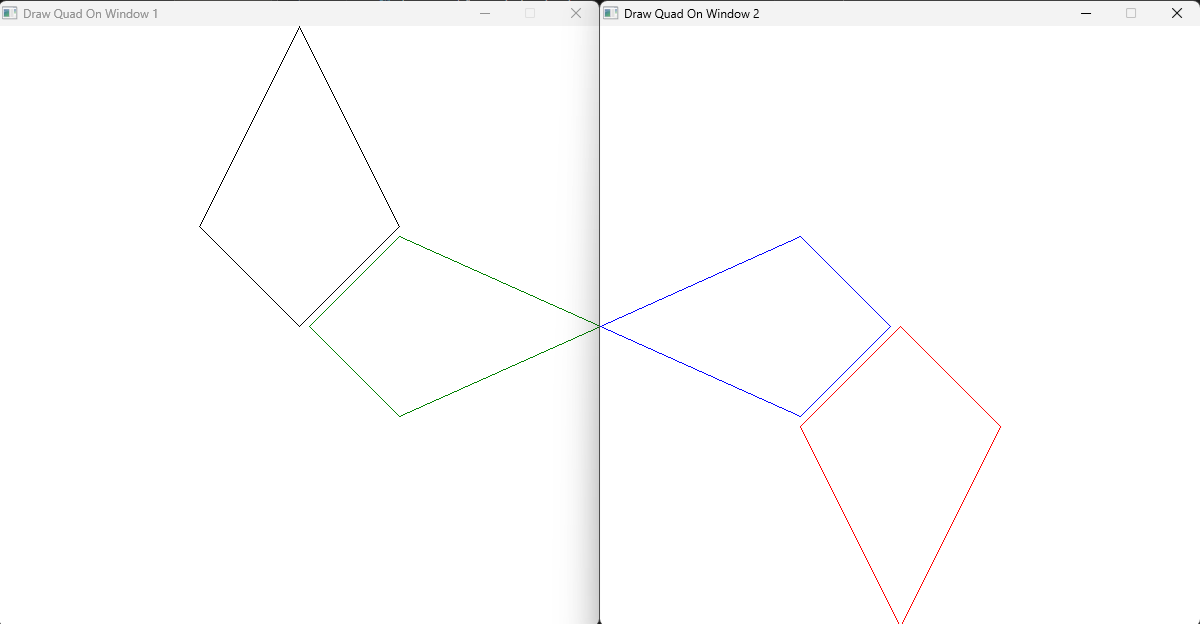
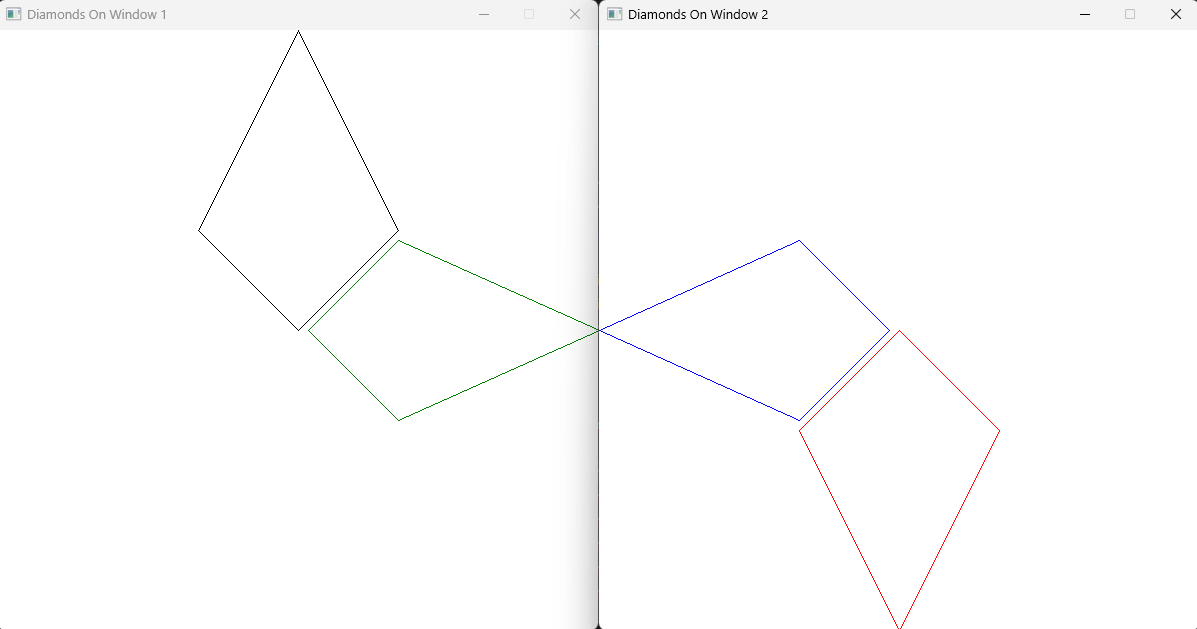
Updated OOP, reformatted code, updated description

diff --git a/public/usage-examples/graphics/draw_quad_on_window/draw_quad_on_window-1-simple-oop.cs b/public/usage-examples/graphics/draw_quad_on_window/draw_quad_on_window-1-simple-oop.cs
@@ -6,28 +6,25 @@ namespace DrawQuadOnWindow
     {
         public static void Main()
         {
-            // Initialise quads with x1,y1,...,x4,y4
-            Quad q1 = SplashKit.QuadFrom(400,200,300,300,300,0,200,200);
-            Quad q2 = SplashKit.QuadFrom(400,210,310, 300,600,300,400,390);
-            Quad q3 = SplashKit.QuadFrom(200,400,300, 300,300,600,400,400);
-            Quad q4 = SplashKit.QuadFrom(200,390,290, 300,0,300,200,210);
+            // Initialise quads with x1, y1,..., x4, y4
+            Quad Q1 = SplashKit.QuadFrom(400, 200, 300, 300, 300, 0, 200, 200);
+            Quad Q2 = SplashKit.QuadFrom(400, 210, 310, 300, 600, 300, 400, 390);
+            Quad Q3 = SplashKit.QuadFrom(200, 400, 300, 300, 300, 600, 400, 400);
+            Quad Q4 = SplashKit.QuadFrom(200, 390, 290, 300, 0, 300, 200, 210);
 
-            // Create Window
-
-            Window window1 = SplashKit.OpenWindow("Draw Quad On Window 1", 600, 600);
-            Window window2 = SplashKit.OpenWindow("Draw Quad On Window 2", 600, 600);
+            // Create Windows
+            Window Window1 = SplashKit.OpenWindow("Diamonds On Window 1", 600, 600);
+            Window Window2 = SplashKit.OpenWindow("Diamonds On Window 2", 600, 600);
             SplashKit.ClearScreen(SplashKit.ColorWhite());
 
-
-            SplashKit.DrawQuadOnWindow(window1, SplashKit.ColorBlack(), q1);
-            SplashKit.DrawQuadOnWindow(window1, SplashKit.ColorGreen(), q2);
-            SplashKit.DrawQuadOnWindow(window2, SplashKit.ColorRed(), q3);
-            SplashKit.DrawQuadOnWindow(window2, SplashKit.ColorBlue(), q4);
-            
+            Window1.DrawQuad(Color.Black, Q1);
+            Window1.DrawQuad(Color.Green, Q2);
+            Window2.DrawQuad(Color.Red, Q3);
+            Window2.DrawQuad(Color.Blue, Q4);
 
             SplashKit.RefreshScreen();
             SplashKit.Delay(5000);
             SplashKit.CloseAllWindows();
-        }    
+        }
     }
 }

diff --git a/public/usage-examples/graphics/draw_quad_on_window/draw_quad_on_window-1-simple.cpp b/public/usage-examples/graphics/draw_quad_on_window/draw_quad_on_window-1-simple.cpp
@@ -3,25 +3,24 @@
 int main()
 {
     // Initialise quads with x1,y1,...,x4,y4
-    quad q1 = quad_from(400,200,300,300,300,0,200,200);
-    quad q2 = quad_from(400,210,310, 300,600,300,400,390);
-    quad q3 = quad_from(200,400,300, 300,300,600,400,400);
-    quad q4 = quad_from(200,390,290, 300,0,300,200,210);
+    quad q1 = quad_from(400, 200, 300, 300, 300, 0, 200, 200);
+    quad q2 = quad_from(400, 210, 310, 300, 600, 300, 400, 390);
+    quad q3 = quad_from(200, 400, 300, 300, 300, 600, 400, 400);
+    quad q4 = quad_from(200, 390, 290, 300, 0, 300, 200, 210);
     
-    // Create Window
-    window window1 = open_window("Draw Quad On Window 1", 600, 600);
-    window window2 = open_window("Draw Quad On Window 2", 600, 600);
+    // Create windows
+    window window_1 = open_window("Diamonds On Window 1", 600, 600);
+    window window_2 = open_window("Diamonds On Window 2", 600, 600);
     clear_screen(COLOR_WHITE);
 
-    
-    draw_quad_on_window(window1, COLOR_BLACK, q1);
-    draw_quad_on_window(window1, COLOR_GREEN, q2);
-    draw_quad_on_window(window2, COLOR_RED, q3);
-    draw_quad_on_window(window2, COLOR_BLUE, q4);
+    draw_quad_on_window(window_1, COLOR_BLACK, q1);
+    draw_quad_on_window(window_1, COLOR_GREEN, q2);
+    draw_quad_on_window(window_2, COLOR_RED, q3);
+    draw_quad_on_window(window_2, COLOR_BLUE, q4);
+
     refresh_screen();
     delay(5000);
     close_all_windows();
+    
     return 0;
 }
-    
-    

diff --git a/public/usage-examples/graphics/draw_quad_on_window/draw_quad_on_window-1-simple-top-level.cs b/public/usage-examples/graphics/draw_quad_on_window/draw_quad_on_window-1-simple-top-level.cs
@@ -1,23 +1,22 @@
 using SplashKitSDK;
 using static SplashKitSDK.SplashKit;
 
+// Initialise quads with x1, y1, ..., x4, y4
+Quad Q1 = QuadFrom(400, 200, 300, 300, 300, 0, 200, 200);
+Quad Q2 = QuadFrom(400, 210, 310, 300, 600, 300, 400, 390);
+Quad Q3 = QuadFrom(200, 400, 300, 300, 300, 600, 400, 400);
+Quad Q4 = QuadFrom(200, 390, 290, 300, 0, 300, 200, 210);
 
-//Initialise quads with x1,y1,...,x4,y4
-Quad q1 = QuadFrom(400,200,300,300,300,0,200,200);   
-Quad q2 = QuadFrom(400,210,310, 300,600,300,400,390);
-Quad q3 = QuadFrom(200,400,300, 300,300,600,400,400);
-Quad q4 = QuadFrom(200,390,290, 300,0,300,200,210);   
-
-// Create Window
-Window window1 = OpenWindow("Draw Quad On Window 1", 600, 600);
-Window window2 = OpenWindow("Draw Quad On Window 2", 600, 600);
+// Create Windows
+Window Window1 = OpenWindow("Diamonds On Window 1", 600, 600);
+Window Window2 = OpenWindow("Diamonds On Window 2", 600, 600);
 ClearScreen(ColorWhite());
 
-
-DrawQuadOnWindow(window1, ColorBlack(), q1);
-DrawQuadOnWindow(window1, ColorGreen(), q2);
-DrawQuadOnWindow(window2, ColorRed(), q3);
-DrawQuadOnWindow(window2, ColorBlue(), q4);
+// Draw quads on each window
+DrawQuadOnWindow(Window1, ColorBlack(), Q1);
+DrawQuadOnWindow(Window1, ColorGreen(), Q2);
+DrawQuadOnWindow(Window2, ColorRed(), Q3);
+DrawQuadOnWindow(Window2, ColorBlue(), Q4);
 
 RefreshScreen();
 Delay(5000);

diff --git a/public/usage-examples/graphics/draw_quad_on_window/draw_quad_on_window-1-simple.py b/public/usage-examples/graphics/draw_quad_on_window/draw_quad_on_window-1-simple.py
@@ -1,23 +1,21 @@
 from splashkit import *
 
-# Initialise quads with x1,y1,...,x4,y4
-q1 = quad_from(400,200,300,300,300,0,200,200)
-q2 = quad_from(400,210,310, 300,600,300,400,390)
-q3 = quad_from(200,400,300, 300,300,600,400,400)
-q4 = quad_from(200,390,290, 300,0,300,200,210)
+# Initialise quads with x1, y1,..., x4, y4
+q1 = quad_from(400, 200, 300, 300, 300, 0, 200, 200)
+q2 = quad_from(400, 210, 310, 300, 600, 300, 400, 390)
+q3 = quad_from(200, 400, 300, 300, 300, 600, 400, 400)
+q4 = quad_from(200, 390, 290, 300, 0, 300, 200, 210)
 
-
-# Create Window
-
-window1 = open_window("Draw Quad On Window 1", 600, 600)
-window2 = open_window("Draw Quad On Window 2", 600, 600)
+# Create windows
+window_1 = open_window("Diamonds On Window 1", 600, 600)
+window_2 = open_window("Diamonds On Window 2", 600, 600)
 clear_screen(color_white())
 
-
-draw_quad_on_window(window1, color_black(), q1)
-draw_quad_on_window(window1, color_green(), q2)
-draw_quad_on_window(window2, color_red(), q3)
-draw_quad_on_window(window2, color_blue(), q4)
+# Draw quads on windows
+draw_quad_on_window(window_1, color_black(), q1)
+draw_quad_on_window(window_1, color_green(), q2)
+draw_quad_on_window(window_2, color_red(), q3)
+draw_quad_on_window(window_2, color_blue(), q4)
 
 refresh_screen()
 delay(5000)
